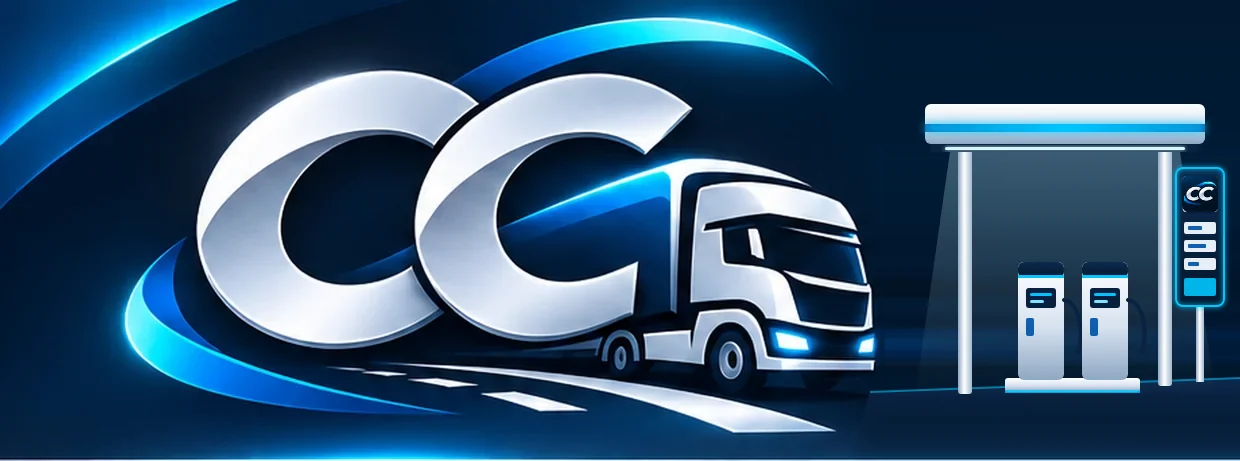
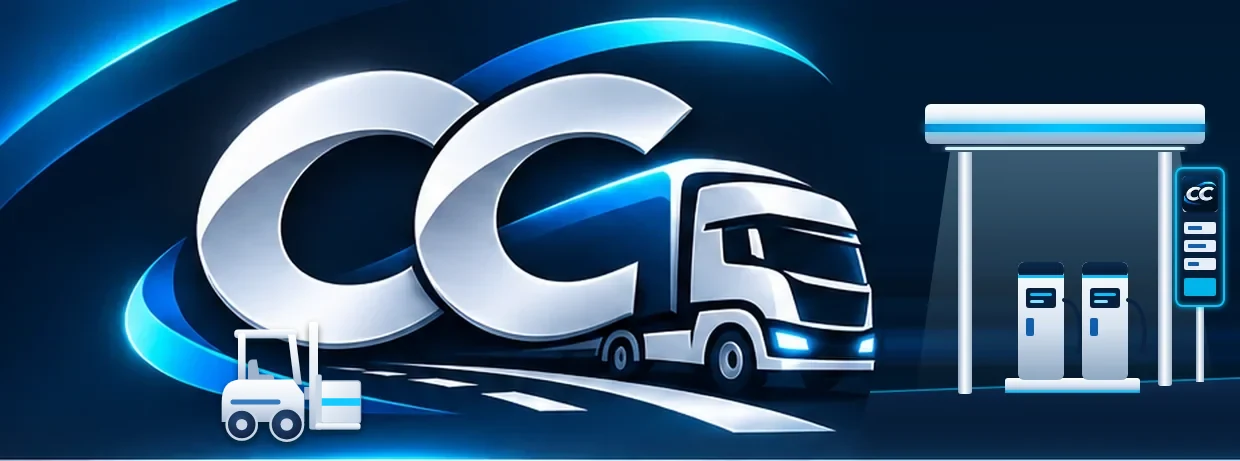
v14: carretilla en el dibujo de la portada (petición n.º 2 del panel)
Claude-Session: https://claude.ai/code/session_011SdsLJxJG1zHHRyp7jf8CX

Changed region(s): [[0.1532, 0.6985, 0.3065, 0.9718]]

diff --git a/styles.css b/styles.css
@@ -160,9 +160,9 @@ main { outline: none; }
 .hero-arte {
   width: 100%; max-width: 560px; aspect-ratio: 1240 / 461; margin: 0 auto;
   background: url(img/hero-arte.webp) center / contain no-repeat;
-  -webkit-mask-image: linear-gradient(90deg, transparent, #000 14%, #000 88%, transparent), linear-gradient(180deg, transparent, #000 18%, #000 80%, transparent);
+  -webkit-mask-image: linear-gradient(90deg, transparent, #000 14%, #000 88%, transparent), linear-gradient(180deg, transparent, #000 18%, #000 94%, transparent);
   -webkit-mask-composite: source-in;
-  mask-image: linear-gradient(90deg, transparent, #000 14%, #000 88%, transparent), linear-gradient(180deg, transparent, #000 18%, #000 80%, transparent);
+  mask-image: linear-gradient(90deg, transparent, #000 14%, #000 88%, transparent), linear-gradient(180deg, transparent, #000 18%, #000 94%, transparent);
   mask-composite: intersect;
 }
 .hero-eyebrow { margin: 0 0 8px; font-family: "Montserrat", sans-serif; font-weight: 700; font-size: .72rem; letter-spacing: .2em; text-transform: uppercase; color: var(--celeste); }

diff --git a/admin.html b/admin.html
@@ -12,9 +12,9 @@
 <link rel="icon" href="img/favicon-32.png" sizes="32x32" type="image/png">
 <link rel="icon" href="img/favicon-64.png" sizes="64x64" type="image/png">
 <link rel="apple-touch-icon" href="img/apple-touch-icon.png">
-<link rel="stylesheet" href="fuentes.css?v=13">
-<link rel="stylesheet" href="styles.css?v=13">
-<link rel="stylesheet" href="admin.css?v=13">
+<link rel="stylesheet" href="fuentes.css?v=14">
+<link rel="stylesheet" href="styles.css?v=14">
+<link rel="stylesheet" href="admin.css?v=14">
 </head>
 <body class="panel">
 <header class="cabecera cab-panel">
@@ -155,8 +155,8 @@
 </section>
 
 <script src="lib/supabase.js"></script>
-<script src="comun.js?v=13"></script>
-<script src="render.js?v=13"></script>
-<script src="admin.js?v=13"></script>
+<script src="comun.js?v=14"></script>
+<script src="render.js?v=14"></script>
+<script src="admin.js?v=14"></script>
 </body>
 </html>

diff --git a/index.html b/index.html
@@ -18,8 +18,8 @@
 <meta property="og:description" content="Info general, avisos, reuniones, actas y buzón para la plantilla.">
 <meta property="og:image" content="https://mariancracana77-ssccoo.github.io/Comite-calsina-carre/img/og.png">
 <meta property="og:type" content="website">
-<link rel="stylesheet" href="fuentes.css?v=13">
-<link rel="stylesheet" href="styles.css?v=13">
+<link rel="stylesheet" href="fuentes.css?v=14">
+<link rel="stylesheet" href="styles.css?v=14">
 </head>
 <body>
 <a class="saltar" href="#contenido">Ir al contenido</a>
@@ -341,8 +341,8 @@
 </footer>
 
 <script src="lib/supabase.js"></script>
-<script src="comun.js?v=13"></script>
-<script src="render.js?v=13"></script>
-<script src="app.js?v=13"></script>
+<script src="comun.js?v=14"></script>
+<script src="render.js?v=14"></script>
+<script src="app.js?v=14"></script>
 </body>
 </html>

diff --git a/cartel.html b/cartel.html
@@ -8,7 +8,7 @@
 <meta name="robots" content="noindex">
 <title>Cartel para el tablón · Comité Calsina Carré</title>
 <link rel="icon" href="img/favicon-32.png" sizes="32x32" type="image/png">
-<link rel="stylesheet" href="fuentes.css?v=13">
+<link rel="stylesheet" href="fuentes.css?v=14">
 <style>
   :root { --noche: #0B1E3C; --azul: #0E5FAE; --cian: #00C6FF; --hielo: #E6EEF7; --tinta: #0B1E3C; --suave: #4d5b6c; }
   * { box-sizing: border-box; }
@@ -88,6 +88,6 @@
   </div>
 </div>
 <script src="lib/qr.js"></script>
-<script src="cartel.js?v=13"></script>
+<script src="cartel.js?v=14"></script>
 </body>
 </html>

diff --git a/comun.js b/comun.js
@@ -6,7 +6,7 @@
 window.SUPABASE_URL = "https://ytxpubqyhnohhugpukdm.supabase.co";
 window.SUPABASE_KEY = "sb_publishable_tmkeed90aj4Fv00UoTTy7Q_qBPUAaCj";
 window.sb = supabase.createClient(window.SUPABASE_URL, window.SUPABASE_KEY);
-window.VERSION_WEB = "13"; // cambiar junto con ?v= en los HTML y VERSION en sw.js
+window.VERSION_WEB = "14"; // cambiar junto con ?v= en los HTML y VERSION en sw.js
 window.WEB_URL = "https://mariancracana77-ssccoo.github.io/Comite-calsina-carre/";
 
 // ---- Utilidades ----

diff --git a/guia.html b/guia.html
@@ -9,8 +9,8 @@
 <title>Guía del panel · Comité Calsina Carré</title>
 <meta name="theme-color" content="#0B1E3C">
 <link rel="icon" href="img/favicon-32.png" sizes="32x32" type="image/png">
-<link rel="stylesheet" href="fuentes.css?v=13">
-<link rel="stylesheet" href="styles.css?v=13">
+<link rel="stylesheet" href="fuentes.css?v=14">
+<link rel="stylesheet" href="styles.css?v=14">
 <style>
   body { padding-bottom: 40px; }
   .guia { max-width: 820px; margin: 0 auto; padding: 8px 16px 40px; }

diff --git a/sw.js b/sw.js
@@ -1,6 +1,6 @@
 // Permite instalar la web como app y abrirla sin conexión.
 // Cambiar VERSION junto con ?v= en los HTML y VERSION_WEB en comun.js.
-const VERSION = "13";
+const VERSION = "14";
 const CACHE = "comite-v" + VERSION;
 const ARCHIVOS = [
   "./", "index.html", "admin.html", "guia.html",

diff --git a/CLAUDE.md b/CLAUDE.md
@@ -9,7 +9,7 @@ La gestiona desde el panel el padre de Lorena (usuario GitHub `mariancracana77-S
 
 - Web: https://mariancracana77-ssccoo.github.io/Comite-calsina-carre/ (GitHub Pages desde `main`, raíz)
 - Panel: `admin.html` (email + contraseña de Supabase)
-- Versión actual: **13**
+- Versión actual: **14**
 
 ## Reglas (las mismas que en CCOO)
 - No publicar en `main` sin que Lorena lo confirme. Trabajar en la rama indicada.
@@ -51,7 +51,7 @@ Copia del sistema de CCOO (ver su CLAUDE.md: «Circuito de peticiones», «Orden
 - Publicar: en este repo, con su versión, respaldo `respaldo-v<N-1>` antes y `pruebas/humo.cjs` en verde.
 
 ## Iconos de lo que tiene la empresa: QUITADOS
-El padre pidió mostrar lo que tiene la empresa (camión, toro, transpaleta, distribuidor, gasolinera). Se probó como franja bajo los accesos y como fila de iconos en el bloque azul, en el cartel y en la imagen al compartir: no le gustó y se quitó de todo (v6). No volver a ponerlo. Se mantiene la gasolinera dibujada junto al camión en `hero-arte.webp`. Los iconos `camion`, `toro`, `transpaleta`, `reparto` y `surtidor` siguen definidos en `comun.js` sin usar.
+El padre pidió mostrar lo que tiene la empresa (camión, toro, transpaleta, distribuidor, gasolinera). Se probó como franja bajo los accesos y como fila de iconos en el bloque azul, en el cartel y en la imagen al compartir: no le gustó y se quitó de todo (v6). No volver a ponerlo. Se mantiene la gasolinera dibujada junto al camión en `hero-arte.webp`. **Excepción (v14, petición n.º 2 del padre en el panel)**: él mismo pidió una carretilla en `hero-arte.webp`, abajo a la izquierda, detrás del camión (dibujo en `herramientas/portada-carretilla/carretilla.svg`, pintado encima del dibujo anterior). El logo pequeño no lleva carretilla: la petición n.º 1 (carretilla en el icono) la descartó él. Los iconos `camion`, `toro`, `transpaleta`, `reparto` y `surtidor` siguen definidos en `comun.js` sin usar.
 
 ## Archivos
 - `index.html` + `app.js`: web pública. Vistas `#actualidad` (portada), `#avisos`, `#reuniones`, `#actas` (con segmento «Documentos útiles», `#documentos`), `#buzon`, `#nosotros`, `#buscar`, `#privacidad`. Enlaces directos `#aviso-N`, `#noticia-N`, `#reunion-N`, `#acta-N`, `#consulta-N`, `#documento-N`. localStorage (todo con try/catch en `TEMA.lee/guarda`): `comite-tema`, `comite-letra`, `comite-avisos-vistos`, `comite-ultima-visita`, `comite-votos`, `comite-copia` (copia sin conexión), `comite-no-instalar`.

diff --git a/README.md b/README.md
@@ -69,6 +69,7 @@ Abre la web y el panel con datos de prueba (sin tocar la base de datos real) en 
 - **v11**: «Actualidad» pasa a llamarse **«Info general»**. **Secciones propias**: desde el panel se crean secciones y subsecciones (con nombre, explicación, dibujo, orden y ocultar) y se publica dentro con archivos y aviso al móvil; las principales salen como pestañas y en la portada. **Asistente de actas** (como en CCOO): al crear un acta, una foto de las notas, un PDF o un Word y la IA gratuita de Google rellena el acta para revisarla (necesita el secreto `GEMINI_API_KEY` en Supabase).
 - **v12**: el asistente de actas **tapa lo importante antes de enviar** a Google: en el texto, nombres (que vuelven al recibir el borrador), DNI, teléfonos, emails, cuentas y matrículas; en fotos y PDF escaneados, se tapa con el dedo. Antes de enviar se ve exactamente lo que sale.
 - **v13**: «Pedir un cambio a Claude» en el panel (como en CCOO): el padre escribe lo que quiere cambiar, con fotos o vídeos, y lo habla con Claude en un chat; Claude lo prepara, Lorena lo revisa en su app y el padre ve las capturas y decide «Publicar» o «Descartar». Avisos al móvil solo para quien usa el panel.
+- **v14**: una carretilla elevadora en el dibujo grande de la portada (a la izquierda, detrás del camión; lo pidió el padre en el panel). Sale también en la imagen al compartir y en el cartel. Dibujo en `herramientas/portada-carretilla/`; en la portada el difuminado de abajo del dibujo empieza más tarde para que la carretilla se vea entera.
 - **v7**: parte legal (aviso legal, privacidad completa, cookies, aviso informativo y botón para borrar los datos del móvil), borrado automático del buzón a los 12 meses, verificación en dos pasos y contraseñas más seguras en el panel, Inicio del panel con bloque azul.
 - **v6**: se quitan los iconos de lo que tiene la empresa (portada, cartel e imagen al compartir); fotos de los miembros (desde el panel, solo con su permiso; se recortan y reducen en el móvil antes de subirlas) y apartados vacíos con icono y explicación.
 - **v5**: cartel A4 con QR y la imagen al compartir por WhatsApp con el estilo nuevo.
